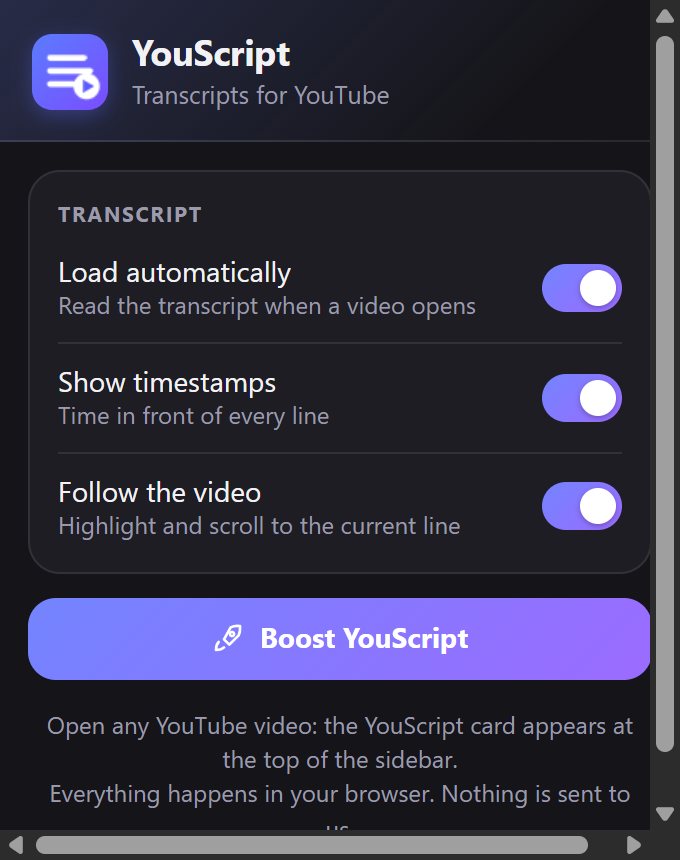
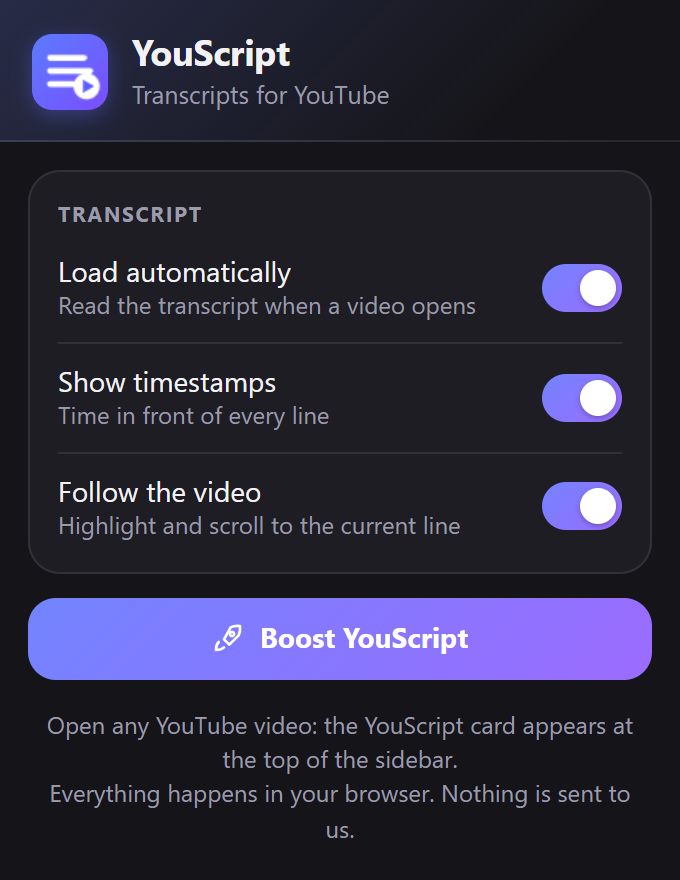
Retake popup screenshot (no scrollbars, nothing cut off)

diff --git a/src/pages/Home.tsx b/src/pages/Home.tsx
@@ -121,7 +121,7 @@ export function Home() {
         kicker="Your way" title="Three switches. That’s all the settings."
         text="YouScript does one thing, so it has almost nothing to configure: load the transcript automatically, show timestamps, and follow the video while it plays. Turn each on or off from the toolbar icon."
         points={['Auto-load the transcript when a video opens', 'Show or hide timestamps', 'Follow along as the video plays']}
-        img={img('popup.png')} alt="The YouScript toolbar popup with three switches: load automatically, show timestamps and follow the video" w={340} h={330}
+        img={img('popup.png')} alt="The YouScript toolbar popup with three switches: load automatically, show timestamps and follow the video" w={340} h={440}
       />
 
       {/* ── no AI ── */}

diff --git a/src/config.ts b/src/config.ts
@@ -49,6 +49,6 @@ export const ROUTES: RouteMeta[] = [
 export const API_BASE: string = (import.meta.env.VITE_API_BASE as string | undefined) || 'https://vidhastra-backend.onrender.com';
 
 /** Bump this when the screenshots in public/img change: it is added to every picture's address so browsers fetch the new files. */
-export const IMG_V = '3';
+export const IMG_V = '4';
 /** Address of a picture in public/img, with the version added. */
 export const img = (name: string) => `/img/${name}?v=${IMG_V}`;
